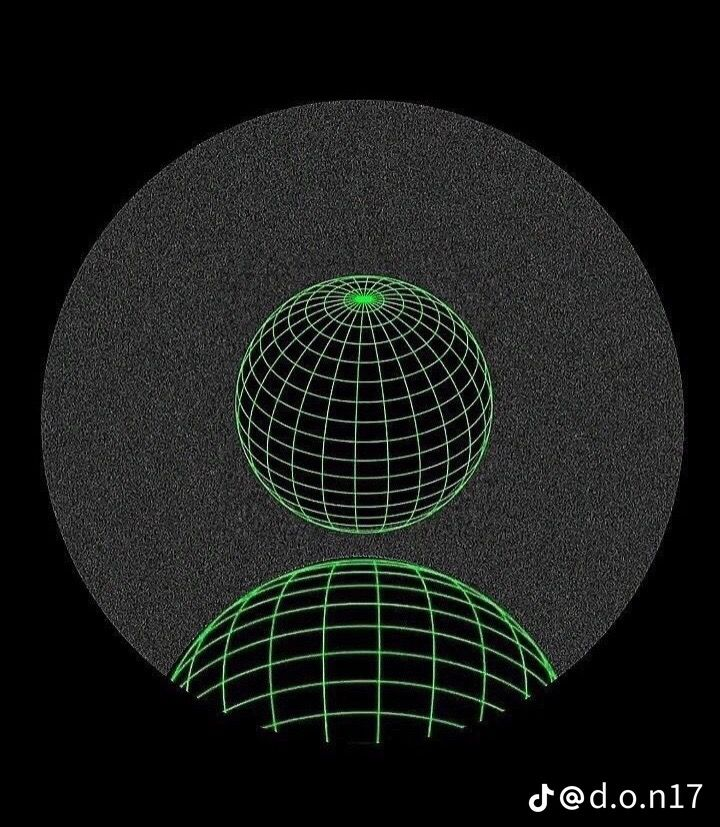
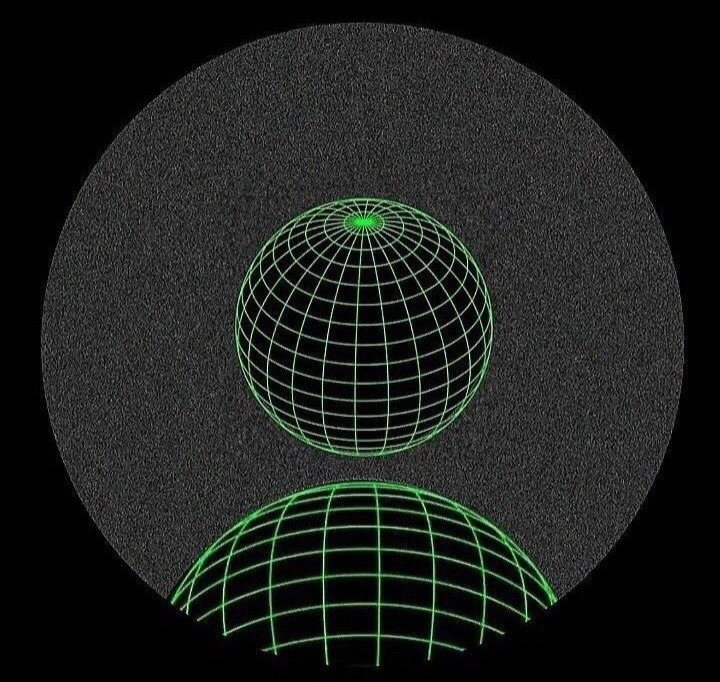
correction pag elcome - added images

diff --git a/public/new_index_CHANGES REVISED.css b/public/new_index_CHANGES REVISED.css
@@ -143,26 +143,10 @@ nav {
     display: flex;
     justify-content: center;
     align-items: center;
-    width: 50%;
-    display: block;
-  margin-left: auto;
-  margin-right: auto;
+
+  
 }
 
-/*
-.rotate {
-    animation: rotation 8s infinite linear;
-  }
-  
-  @keyframes rotation {
-    from {
-      transform: rotate(0deg);
-    }
-    to {
-      transform: rotate(359deg);
-    }
-  }
-  */
   
   .image-container-homepage img {
     max-width: 100%;
@@ -179,6 +163,7 @@ nav {
     border-radius: 50%;
    
     cursor: pointer;
+   
     
 }
 
@@ -468,3 +453,4 @@ footer {
   display: block;      /* Elimina spazi vuoti indesiderati sotto l'immagine */
   margin: 10px auto;  /* Centra l'immagine se il contenitore è più largo */
 }
+

diff --git a/public/new_index_CHANGES REVISED.js b/public/new_index_CHANGES REVISED.js
@@ -50,12 +50,12 @@ function updateImageBasedOnSum() {
   
     // Controllo per le combinazioni - cambia immagini con compatibili 
     if (totalSum === 'AAA') {
-      placeholder.src = 'images/treeecourse.gif';
+      placeholder.src = 'images/img neutrale/neutral pfp 1.png';
       message.textContent = 'Combinazione AAA scelta!';
       placeholder.style.width = '300px';
       placeholder.style.height = 'auto';
     } else if (totalSum === 'ABC') {
-      placeholder.src = 'images/closet.png';
+      placeholder.src = 'images/img neutrale/neutral pfp 2.png';
       message.textContent = 'Combinazione ABC scelta!';
       placeholder.style.width = '300px';
       placeholder.style.height = 'auto';

diff --git a/public/controindicazioni_inmate.html b/public/controindicazioni_inmate.html
@@ -83,9 +83,12 @@
 
 <div class="container-riga"> 
 
-  <button id="confirmBtn">Confirm</button>
- <button id="ignoreBtn" onclick="Variazione('B'); Route()">Ignore</button>
-  <button id="repeatBtn">Repeat</button>
+
+<div class="buttons-options-cir">
+      <button id="confirmBtn">Confirm</button>
+      <button id="ignoreBtn" onclick="Variazione('B'); Route()">Ignore</button>
+      <button id="repeatBtn">Repeat</button>
+</div>
 
 <section id="resultSection" style="display: none;">
   <div class="result-text" id="resultText1">

diff --git a/public/new_index_CHANGES REVISED.html b/public/new_index_CHANGES REVISED.html
@@ -48,7 +48,7 @@
 
   <div class="immagine">
       <div class="image-container" > 
-            <img src="images/ccchaos.svg" id ="placeholder" alt="Placeholder Image"  class="rotate custom.image">
+            <img src="images/img neutrale/neutral pfp 1.png" id ="placeholder" alt="Placeholder Image"  class="custom.image">
               <p id="frase-avatar" class="avatar-voice"></p>
           </div>
       <span class="tooltip">Origin Point?</span>

diff --git a/public/IDENTITY_QUEST.html b/public/IDENTITY_QUEST.html
@@ -70,7 +70,7 @@ document.addEventListener('DOMContentLoaded', () => {
         <span>60 min</span>
       </div>
       <div class="slider-value" id="sliderValue">13 minutes</div>
-      <button class="confirm-btn" onclick="confirmAndStartTimer(); Route()">CONFIRM</button>
+      <button class="confirm-btn" onclick="confirmAndStartTimer()">CONFIRM</button>
     </div>
   </div>
 </section>
